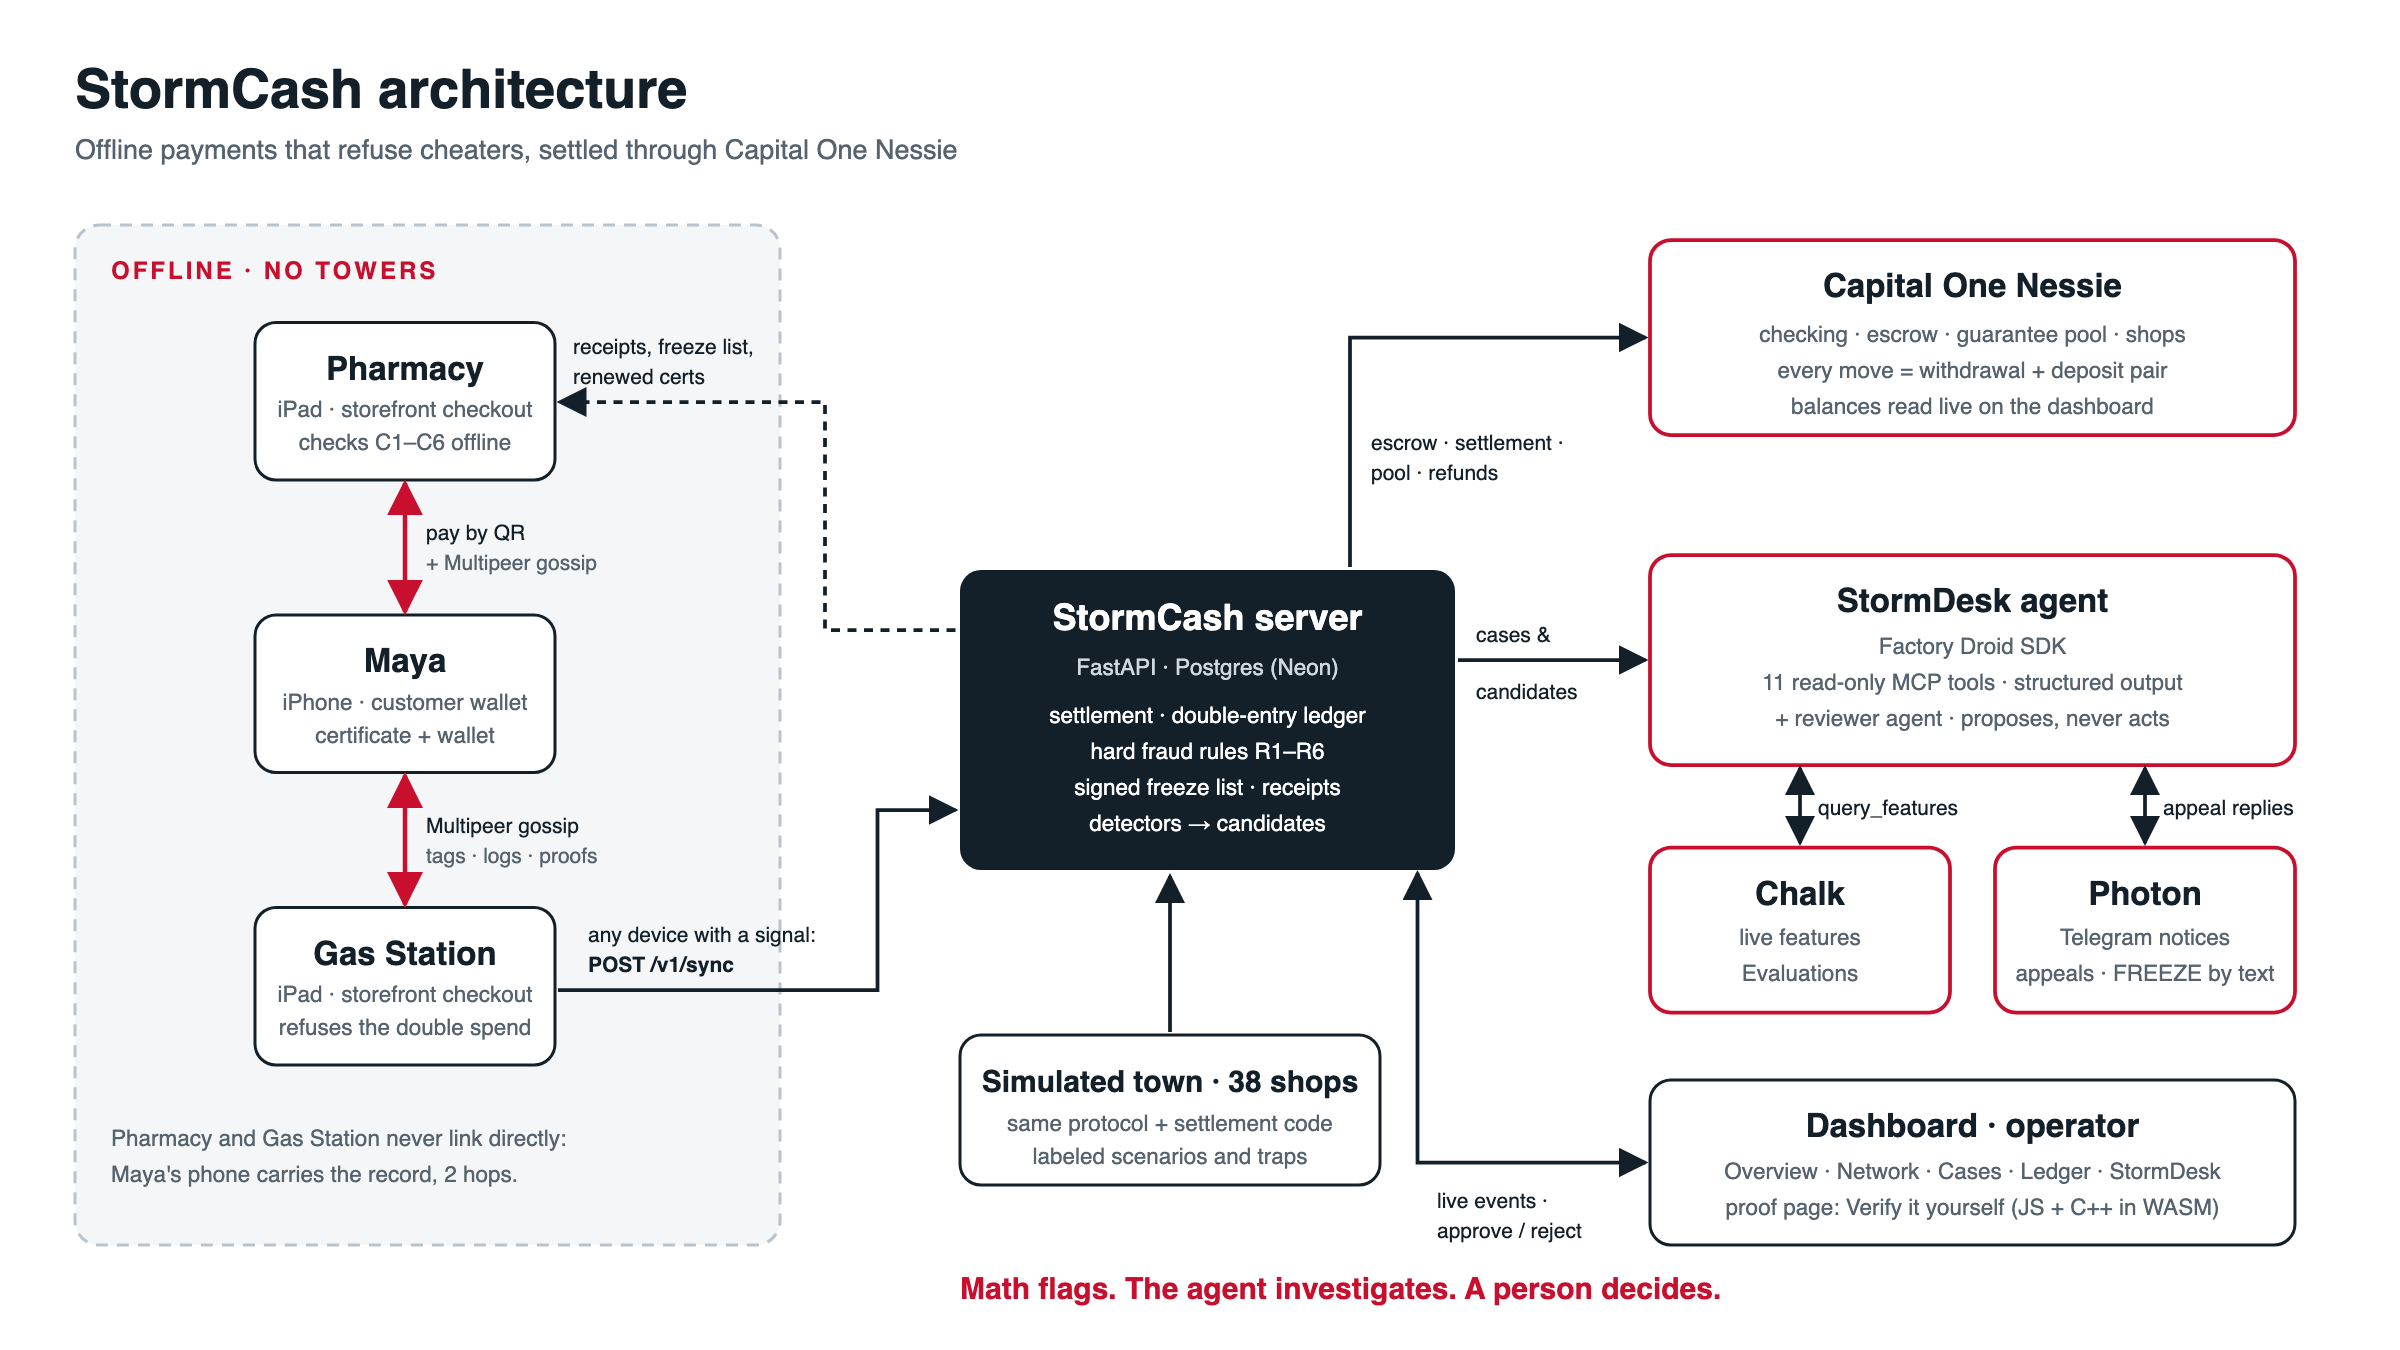
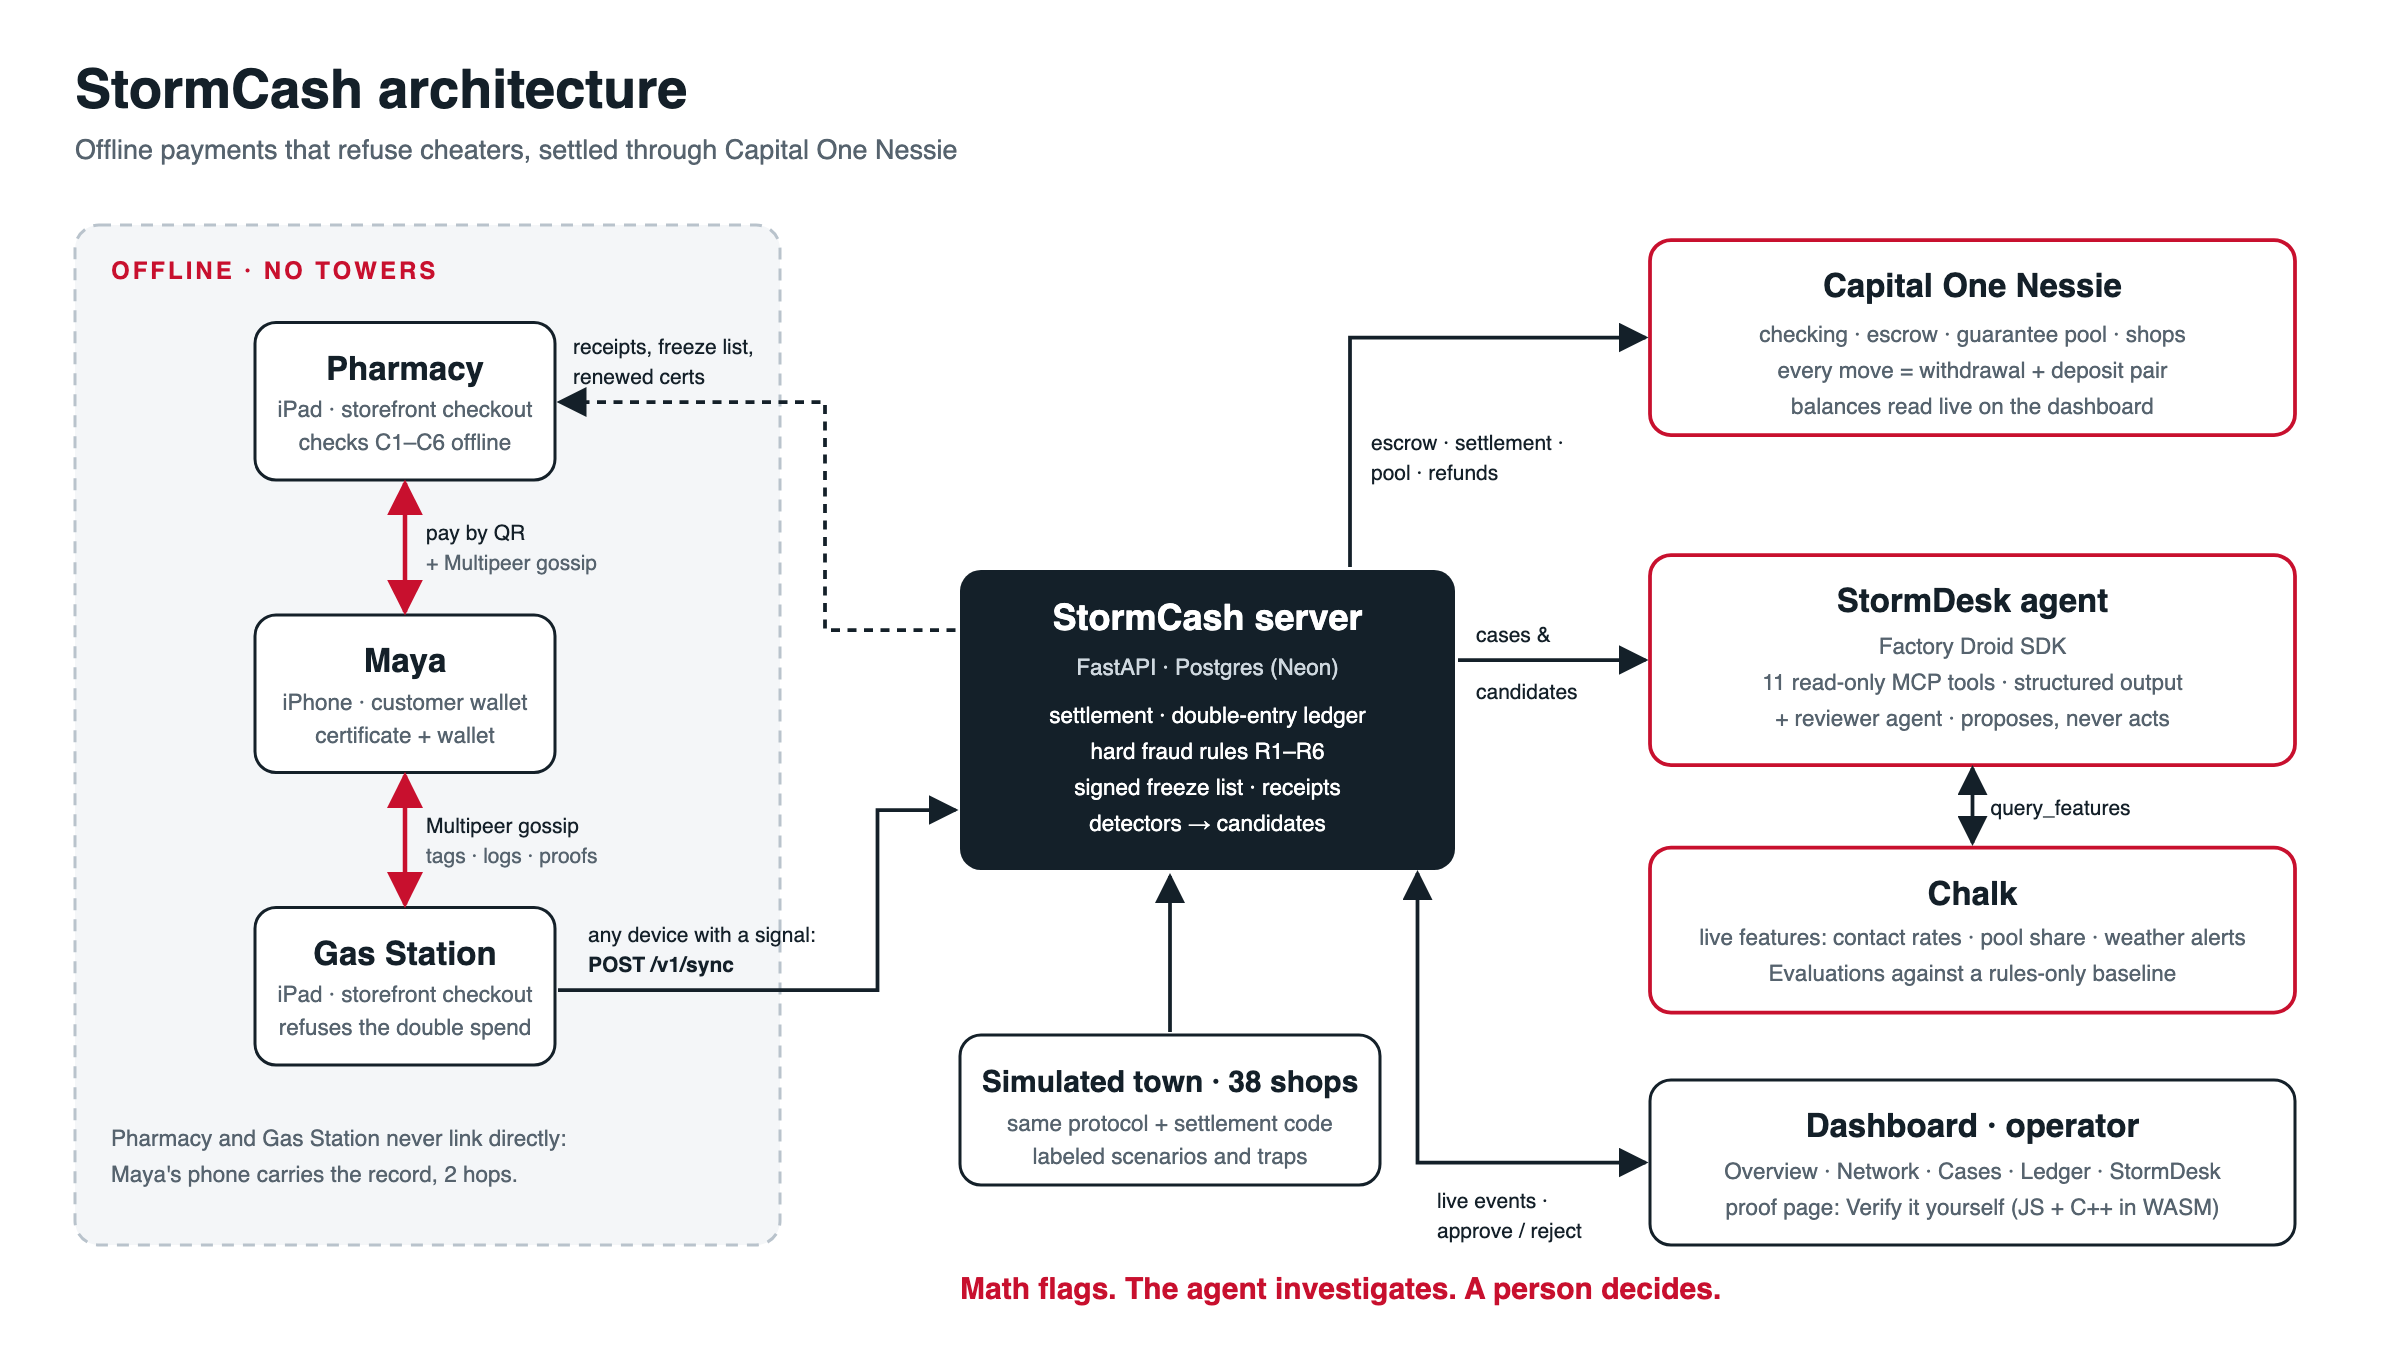
Devpost and diagram: drop Photon
We're not submitting or demoing Photon. Removed it from the sponsor list, the write-up,
the sponsor notes and Built with, and from the architecture diagram (the Chalk box now
spans the space). The Photon code stays in the repo.

Changed region(s): [[0.7188, 0.56, 0.9688, 0.7778]]

diff --git a/docs/devpost.md b/docs/devpost.md
@@ -2,7 +2,7 @@
 
 Paste each section into the matching Devpost field. One thing is still marked **FILL BEFORE SUBMIT**: the demo video link. Brian and Alex: read "How we worked as a team" and "What we learned" and adjust anything that doesn't sound like you before pasting. Don't type any number that isn't already here: every figure below comes from a real run or from the code (eval numbers from Chalk runs, listed with their ids in the README).
 
-Submission deadline: **Sunday Oct 18, 8:00 AM** (aim for 7:30). Track: **Digital Trust**. Sponsor challenges: **Best Use of Nessie (Capital One)**, **Factory Droid SDK**, **Chalk**, **Photon**.
+Submission deadline: **Sunday Oct 18, 8:00 AM** (aim for 7:30). Track: **Digital Trust**. Sponsor challenges: **Best Use of Nessie (Capital One)**, **Factory Droid SDK**, **Chalk**.
 
 ---
 
@@ -27,7 +27,7 @@ We wanted to know how much of a payment can be checked with no network at all, a
 - **Cheating is refused offline.** Every payment is a signed, chained spend tag. Phones pass tags to each other over Bluetooth and peer Wi-Fi, and customers carry them from shop to shop. If someone rolls back their wallet and spends the same money again, the next shop that has seen the tag refuses it, with no internet anywhere, and the two conflicting signatures are proof anyone can check.
 - **Records hop phone to phone.** Payments, tags and signed device logs travel phone to phone until any phone finds a signal and uploads them. The server pays shops through Nessie, freezes the cheater, and sends receipts and the freeze list back the same way.
 - **"Merchant knew."** Every phone keeps a signed, hash-chained log of what it accepted and whom it met. A shop that took a double spend while holding the conflicting tag is caught by its own signature.
-- **StormDesk.** A back-office agent built on Factory's Droid SDK investigates fraud cases and triages suspicious patterns, reading live features from Chalk. It proposes; a person approves. Shops get notices and can appeal by text through Photon.
+- **StormDesk.** A back-office agent built on Factory's Droid SDK investigates fraud cases and triages suspicious patterns, reading live features from Chalk. It proposes; a person approves.
 
 **Math flags. The agent investigates. A person decides.**
 
@@ -39,14 +39,13 @@ We wanted to know how much of a payment can be checked with no network at all, a
 - **Capital One Nessie:** checking, escrow, guarantee-pool and shop accounts. Every money movement is a matched withdrawal and deposit linked to our ledger, and the dashboard reads balances live from Nessie.
 - **Factory Droid SDK:** StormDesk runs Droid sessions with structured outputs (Pydantic), eleven read-only tools served as an in-process MCP server, a permission handler that blocks everything else, and a citation check that rejects any claim citing an id that doesn't exist.
 - **Chalk:** feature classes and SQL resolvers over our Postgres data plus live National Weather Service alerts, queried by StormDesk at runtime, and Chalk Evaluations scoring StormDesk against a rules-only baseline.
-- **Photon:** hold notices and appeal conversations with shop owners over Telegram.
 - **Simulator:** a deterministic 40-shop town built on the same protocol and settlement code as the real phones, with labeled scenarios and deliberate traps, used for the dashboard's Town tab and as the eval dataset.
 - **C++ verifier:** `stormcash-verify`, a third independent implementation of the protocol's checks (OpenSSL), which reproduces every shared test vector and checks a cheating proof offline from the command line.
 - **Dashboard:** React, Vite and TypeScript, with Accounts, Cases, Town and Evals tabs and a public "Verify it yourself" proof page that checks the signatures in the judge's own browser.
 
 ### How we worked as a team
 
-- **A clean split.** Brian owned everything on the phones: the Expo app, Face ID and QR, the offline checks, Multipeer sync and relay, Secure Enclave keys, and the Photon messaging agent. Alex owned everything behind them: the server, settlement and Nessie, the fraud rules, the simulator, the dashboard, StormDesk on Droid, the Chalk evaluations and the C++ verifier.
+- **A clean split.** Brian owned everything on the phones: the Expo app, Face ID and QR, the offline checks, Multipeer sync and relay, and Secure Enclave keys. Alex owned everything behind them: the server, settlement and Nessie, the fraud rules, the simulator, the dashboard, StormDesk on Droid, the Chalk evaluations and the C++ verifier.
 - **A contract between our halves.** Before either side built on the protocol, we wrote a spec and generated shared test vectors. Brian's TypeScript and Alex's Python had to reproduce them byte for byte, so the phones and the server agreed on every signature without either of us reading the other's code.
 - **One workflow for everything.** We tracked the work as 50+ GitHub issues, one per piece, grouped by workstream and by schedule block. Every change went in through a pull request (71 merged by early Sunday), and CI had to pass on all four parts (server, mobile, dashboard and C++) before anything merged. The spec stayed the source of truth: when code changed the design, the spec changed in the same pull request.
 - **Checking each other's assumptions.** Hour-one checks against the real APIs (Nessie, Droid, Chalk) changed our design early. Nessie's balances don't move, so we redesigned settlement around withdrawal and deposit pairs before writing it.
@@ -89,7 +88,7 @@ We wanted to know how much of a payment can be checked with no network at all, a
 
 ## Built with
 
-python, fastapi, postgresql, neon, react, typescript, vite, tailwindcss, react-native, expo, swift, c++, cmake, openssl, multipeer-connectivity, ecdsa, capital-one-nessie, factory-droid, chalk, photon, telegram, cloudflare
+python, fastapi, postgresql, neon, react, typescript, vite, tailwindcss, react-native, expo, swift, c++, cmake, openssl, multipeer-connectivity, ecdsa, capital-one-nessie, factory-droid, chalk, cloudflare
 
 ---
 
@@ -104,8 +103,6 @@ Paste these where Devpost asks how you used each sponsor.
 **Chalk.** StormDesk reads live Chalk features at runtime (shop contact rates against neighbors, pool-funded share, certificate drain speed, upload gaps, weather alerts). We evaluated it with Chalk Evaluations on labeled simulated towns with deliberate traps, against a rules-only baseline.
 
 On two held-out simulated towns, chosen before the run and never seen while we wrote the agent's prompt, StormDesk caught 6 of 9 real fraud cases, including every stolen phone, and wrongly flagged 0 of 11 honest subjects, with every cited record valid (Chalk run `51b74f56-d8d8-466b-a07c-3ddf8baa8064`). The rules-only baseline on the same rows caught all 9 but also flagged all 11 honest subjects (`dc1fd4c9-734e-408d-8c48-9c583dcb3867`). Our first prompt was far too lenient (2 of 23 real cases on our main set), so we rewrote it, said so openly, and then tested it blind. It still misses some colluding shops and every dark region on the held-out towns, which is why a person approves every action.
-
-**Photon.** When an operator approves a hold, the shop owner gets a notice on Telegram whose numbers all come from the flag's evidence. Their reply is answered by StormDesk, citing their own signed logs, and anything uncertain goes to a person.
 
 **Digital Trust track.** The judge tries to cheat with no internet and is refused. The evidence is self-proving signatures, and our "merchant knew" rule catches a colluding shop with its own signed log.
 
